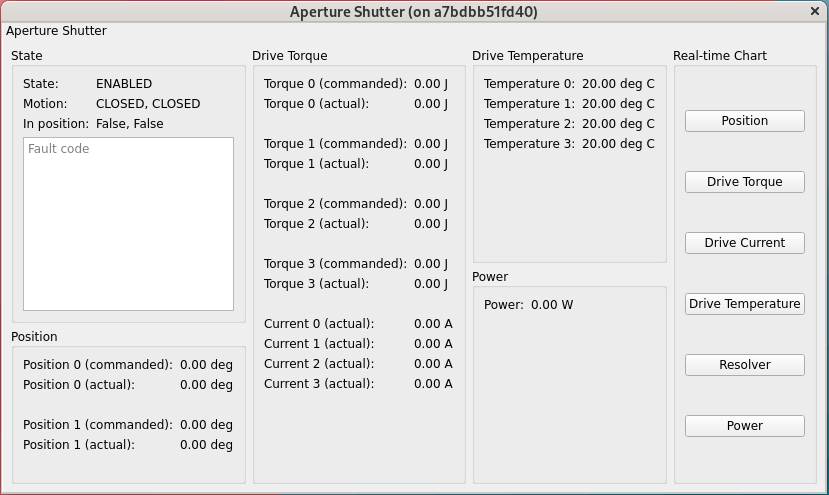
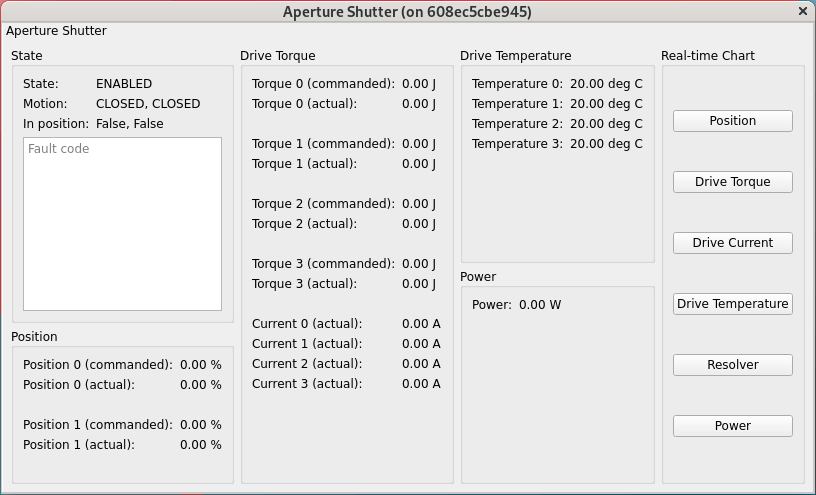
Fix the position unit of shutter.

diff --git a/tests/tab/test_tab_aperture_shutter.py b/tests/tab/test_tab_aperture_shutter.py
@@ -69,8 +69,8 @@ async def test_set_signal_telemetry(widget: TabApertureShutter) -> None:
     # Sleep so the event loop can access CPU to handle the signal
     await asyncio.sleep(1)
 
-    assert widget._status["position_commanded"][0].text() == "1.00 deg"
-    assert widget._status["position_actual"][0].text() == "1.00 deg"
+    assert widget._status["position_commanded"][0].text() == "1.00 %"
+    assert widget._status["position_actual"][0].text() == "1.00 %"
 
     assert widget._status["drive_torque_commanded"][0].text() == "1.00 J"
     assert widget._status["drive_torque_actual"][0].text() == "1.00 J"

diff --git a/python/lsst/ts/mtdomegui/tab/tab_aperture_shutter.py b/python/lsst/ts/mtdomegui/tab/tab_aperture_shutter.py
@@ -361,10 +361,10 @@ class TabApertureShutter(TabTemplate):
         position_actual = telemetry["positionActual"]
         for idx in range(APSCS_NUM_SHUTTERS):
             self._status["position_commanded"][idx].setText(
-                f"{position_commanded[idx]:.2f} deg"
+                f"{position_commanded[idx]:.2f} %"
             )
             self._status["position_actual"][idx].setText(
-                f"{position_actual[idx]:.2f} deg"
+                f"{position_actual[idx]:.2f} %"
             )
 
         for idx in range(NUM_DRIVE_SHUTTER):

diff --git a/doc/version_history.rst b/doc/version_history.rst
@@ -13,6 +13,7 @@ Version History
 -------------
 
 * Allow to query the shutter status.
+* Fix the unit of position of the shutter.
 
 .. _lsst.ts.mtdomegui-0.4.2:
 
